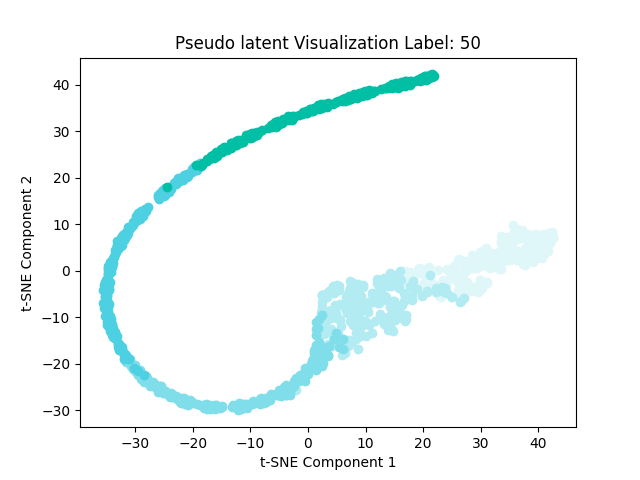
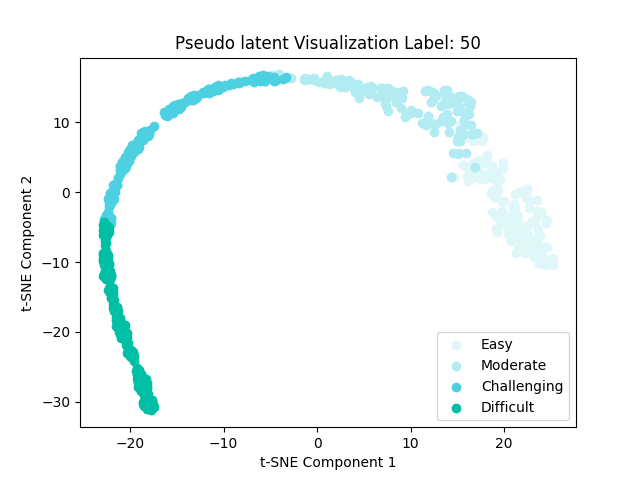
add darkflpa

diff --git a/draw_generator.py b/draw_generator.py
@@ -1,0 +1,164 @@
+import torch
+import torch.nn as nn
+from trainer.generator.generator import Generator_CIFAR, Generator_LATENT
+import numpy as np
+from PIL import Image
+from utils.modelload.modelloader import load_model_eval
+from utils.options import args_parser
+import torch.nn.functional as F
+import random
+import math
+from utils.train_utils import calc_target_probs
+from utils.train_utils import RkdDistance, RKdAngle, HardDarkRank, calc_target_probs, exit_policy, difficulty_measure
+from sklearn.decomposition import PCA
+from sklearn.manifold import TSNE
+import matplotlib.pyplot as plt
+import numpy as np
+import os
+
+from sklearn.decomposition import PCA
+from sklearn.manifold import TSNE
+import matplotlib.pyplot as plt
+
+
+GRAY = '#777777'
+DARK_GRAY = '#333333'
+PURPLE = '#988ED5'
+BROWN = '#8C6D31'
+DARK_GREEN = '#467821'
+DEEP_DARK_BLUE = '#253494'
+RED = '#FF0000'
+
+LIGHT_DARK_GRAY = '#A6A6A6'  # Lightened version of DARK_GRAY
+LIGHT_GRAY = '#D3D3D3'  # Lightened version of GRAY
+LIGHT_PURPLE = '#D6CDEA'  # Lightened version of PURPLE
+LIGHT_BROWN = '#D6B37E'  # Lightened version of BROWN
+LIGHT_GREEN = '#A8D7A3'  # Lightened version of DARK_GREEN
+LIGHT_BLUE = '#A3B9E1'  # Lightened version of DEEP_DARK_BLUE
+LIGHT_RED = '#FF9999'  # Lightened version of RED
+
+RATIO=1.7
+
+MARKER_SIZE = 10/RATIO
+TEXT_SIZE = 14/RATIO
+# COLORS = ["#E0F7FA", "#B2EBF2", "#4DD0E1", "#00BFA5"]
+
+
+DIFFS = ["Easy", "Moderate", "Challenging", "Difficult"]
+
+
+
+args = args_parser()
+
+seed = args.seed
+seed=1117
+torch.manual_seed(seed)
+torch.cuda.manual_seed(seed)
+torch.cuda.manual_seed_all(seed)
+np.random.seed(seed)
+random.seed(seed)
+
+def darkflpg_draw(label, dir, title):
+    COLORS = ["#E0F7FA", "#B2EBF2", "#4DD0E1", "#00BFA5"]
+    args.diff_generator=True
+    a = torch.load('exps/BASE_CIFAR/full_boosted/noniid1000/darkflpg_cifar100_noniid1000_vit_100c_1E_lrsgd0.05_boosted_G_12.pth')
+    g = Generator_LATENT(args)
+
+    g.load_state_dict(a, strict=False)
+
+    ALL=500
+    fig, ax = plt.subplots()
+    if not os.path.exists(dir):
+        os.makedirs(dir)
+    g.to(0)
+
+    y_input = torch.tensor([label]*ALL, dtype=torch.long).to(0)
+    diff=[]
+    ds = [0, 1.5, 3, 4.5]
+    for d in ds:
+        diff.extend([d]*int(ALL/len(ds)))
+        
+    # diffs = torch.tensor(diff, dtype=torch.float).resize(ALL, 1).to(0)
+    diffs = torch.tensor(np.linspace(0, 5, ALL), dtype=torch.float).resize(ALL,1).to(0)
+    eps = torch.rand((y_input.shape[0], g.noise_dim)).to(0)
+
+    imgs = g(y_input, eps, diffs)
+    imgs = imgs.resize(ALL, 197*192)
+
+    X = imgs.detach().cpu().numpy()
+
+    # 创建t-SNE对象，并指定降维后的维度为2
+    tsne = TSNE(n_components=2)
+
+    # 对数据进行降维
+    print(X.shape)
+    result = tsne.fit_transform(X)
+
+    # 可视化降维后的结果
+    for idx, d in enumerate(ds):
+        plt.scatter(result[int(ALL/len(ds))*(idx):int(ALL/len(ds))*(idx+1), 0], result[int(ALL/len(ds))*(idx):int(ALL/len(ds))*(idx+1), 1], color=COLORS[idx], label=DIFFS[idx])
+
+    plt.legend(loc='lower right')
+    plt.xlabel('t-SNE Component 1')
+    plt.ylabel('t-SNE Component 2')
+    plt.title(title)
+    plt.show()
+    plt.savefig(f'{dir}label{label}.png')
+
+
+darkflpg_draw(0, './imgs/generator/darkflpg/', f'Pseudo latent Visualization Label: {0}')
+darkflpg_draw(50, './imgs/generator/darkflpg/', f'Pseudo latent Visualization Label: {50}')
+darkflpg_draw(99, './imgs/generator/darkflpg/', f'Pseudo latent Visualization Label: {99}')
+
+
+def darkflpa_draw(label, dir, title):
+    COLORS = [RED, DARK_GREEN, BROWN, PURPLE]
+    args.diff_generator=False
+    gs = []
+    ALL=64
+    for i in range(4):
+        a = torch.load(f'exps/BASE_CIFAR/full_boosted/noniid1000/darkflpa2_cifar100_noniid1000_vit_100c_1E_lrsgd0.05_boosted_G_{i}.pth')
+        g = Generator_LATENT(args)
+        g.load_state_dict(a, strict=False)
+        g.to(0)
+        gs.append(g)
+    
+    fig, ax = plt.subplots()
+    if not os.path.exists(dir):
+        os.makedirs(dir)
+
+    
+    imgs = []
+    for i in range(4):
+        y_input = torch.tensor([label]*int(ALL/4), dtype=torch.long).to(0)
+        eps = torch.rand((y_input.shape[0], g.noise_dim)).to(0)
+        imgs.append(gs[i](y_input, eps))
+    
+    imgs = torch.cat(imgs, dim=0) 
+    
+    imgs = imgs.resize(ALL, 197*192)
+
+    X = imgs.detach().cpu().numpy()
+
+    # 创建t-SNE对象，并指定降维后的维度为2
+    tsne = TSNE(n_components=2)
+
+    # 对数据进行降维
+    print(X.shape)
+    result = tsne.fit_transform(X)
+
+    # 可视化降维后的结果
+    for idx in range(4):
+        plt.scatter(result[int(ALL/4)*(idx):int(ALL/4)*(idx+1), 0], result[int(ALL/4)*(idx):int(ALL/4)*(idx+1), 1], color=COLORS[idx], label=f'Generator {idx}')
+
+    plt.legend(loc='lower right')
+    plt.xlabel('t-SNE Component 1')
+    plt.ylabel('t-SNE Component 2')
+    plt.title(title)
+    plt.show()
+    plt.savefig(f'{dir}label{label}.png')
+    
+    
+darkflpa_draw(0, './imgs/generator/darkflpa/', f'Pseudo latent Visualization Label: {20}')    
+darkflpa_draw(50, './imgs/generator/darkflpa/', f'Pseudo latent Visualization Label: {50}')    
+darkflpa_draw(99, './imgs/generator/darkflpa/', f'Pseudo latent Visualization Label: {99}')
